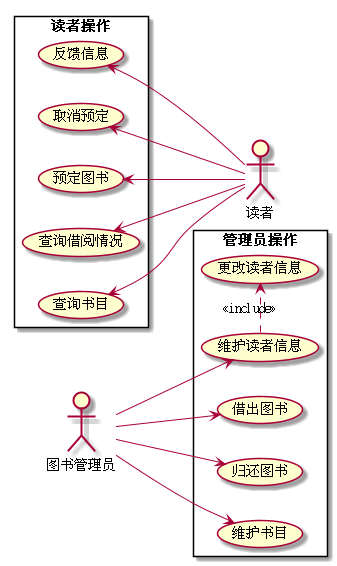
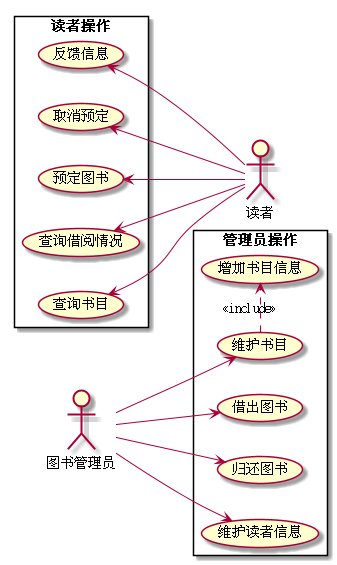
实验二测试

diff --git a/test2/markdown/user1.html b/test2/markdown/user1.html
@@ -8,7 +8,7 @@
 <table border="1" cellspacing="0" cellpadding="0" >
     <tr>
         <td width="150"> <b>&nbsp;用例名称</b></td>
-        <td colspan="2" width="600">&nbsp;预定图书</td>
+        <td colspan="2" width="600">&nbsp;查询借阅情况</td>
     </tr>
     <tr>
         <td width="150"> <b>&nbsp;参与者</b></td>
@@ -20,7 +20,7 @@
     </tr>
     <tr>
         <td width="150"> <b>&nbsp;后置条件</b></td>
-        <td colspan="2" width="600">&nbsp;系统对读者借阅信息进行更改</td>
+        <td colspan="2" width="600">&nbsp;无</td>
     </tr>
     <tr>
         <td colspan="3" width="200"> <b>&nbsp;主事件流</b></td>
@@ -35,36 +35,16 @@
             <br>
             <span>&nbsp;</span>
             <br>
-            <span>&nbsp;3.读者查询图书；</span>
-            <br>
             <span>&nbsp;</span>
             <br>
-            <span>&nbsp;5.选择需要预定的图书；</span>
-            <br>
-            <span>&nbsp;6.确认预定图书；</span>
-            <br>
-            <span>&nbsp;</span>
-            <br>
-            <span>&nbsp;</span>
-            <br>
-            <span>&nbsp;9.读者确认预定成功，用例结束；</span>
+            <span>&nbsp;4.读者查看自己的预定情况，用例结束；</span>
         </td>
         <td width="410">
             <span>&nbsp;</span>
             <br>
             <span>&nbsp;2.系统查询登录是被允许；</span>
             <br>
-            <span>&nbsp;</span>
-            <br>
-            <span>&nbsp;4.系统显示搜寻的图书；</span>
-            <br>
-            <span>&nbsp;</span>
-            <br>
-            <span>&nbsp;</span>
-            <br>
-            <span>&nbsp;7.系统更改读者借阅情况；</span>
-            <br>
-            <span>&nbsp;8.返回预定成功消息；</span>
+            <span>&nbsp;3.系统返回读者的借阅情况；</span>
             <br>
             <span>&nbsp;</span>
         </td>
@@ -81,18 +61,6 @@
             <span>&nbsp;2b.读者未注册</span>
             <br>
             <span>&nbsp;&emsp;1.系统返回登录界面，转第1步</span>
-            <br>
-            <span>&nbsp;4a.系统未查询到图书</span>
-            <br>
-            <span>&nbsp;&emsp;1.提示读者未搜寻到图书，转第3步</span>
-            <br>
-            <span>&nbsp;6a.读者重新选择预定图书</span>
-            <br>
-            <span>&nbsp;&emsp;1.清空搜寻信息，转第3步</span>
-            <br>
-            <span>&nbsp;7a.修改读者信息失败</span>
-            <br>
-            <span>&nbsp;&emsp;1.提示读者错误信息，转第3步</span>
         </td>
     </tr>
     <tr>
@@ -100,11 +68,9 @@
     </tr>
     <tr>
         <td colspan="3" width="200">
-            <span>&nbsp;1.用户登录成功后可以查询图书，并选择预定</span>
+            <span>&nbsp;1.读者登录只有登陆后才能观看自己的借阅信息</span>
             <br>
-            <span>&nbsp;2.一位读者同时能够在借图书本数为10本</span>
-            <br>
-            <span>&nbsp;3.一位读者一次性可以借阅多本图书，但是不能超过借阅上限</span>
+            <span>&nbsp;2.读者不能查看别人的借阅信息</span>
         </td>
     </tr>
 </table>

diff --git a/test2/markdown/usercase4.md b/test2/markdown/usercase4.md
@@ -1,1 +1,70 @@
 # 查询借阅情况规约表 | [返回](../README.md)
+<table border="1" cellspacing="0" cellpadding="0" >
+    <tr>
+        <td width="150"> <b>&nbsp;用例名称</b></td>
+        <td colspan="2" width="600">&nbsp;查询借阅情况</td>
+    </tr>
+    <tr>
+        <td width="150"> <b>&nbsp;参与者</b></td>
+        <td colspan="2" width="600">&nbsp;读者</td>
+    </tr>
+    <tr>
+        <td width="150"> <b>&nbsp;前置条件</b></td>
+        <td colspan="2" width="600">&nbsp;读者已注册</td>
+    </tr>
+    <tr>
+        <td width="150"> <b>&nbsp;后置条件</b></td>
+        <td colspan="2" width="600">&nbsp;无</td>
+    </tr>
+    <tr>
+        <td colspan="3" width="200"> <b>&nbsp;主事件流</b></td>
+    </tr>
+    <tr>
+        <td colspan="2" width="180"> <b>&nbsp;参与者动作</b></td>
+        <td width="410"> <b>&nbsp;系统行为</b></td>
+    </tr>
+    <tr>
+        <td colspan="2" width="180">
+            <span>&nbsp;1.读者登录系统；</span>
+            <br>
+            <span>&nbsp;</span>
+            <br>
+            <span>&nbsp;</span>
+            <br>
+            <span>&nbsp;4.读者查看自己的预定情况，用例结束；</span>
+        </td>
+        <td width="410">
+            <span>&nbsp;</span>
+            <br>
+            <span>&nbsp;2.系统查询登录是被允许；</span>
+            <br>
+            <span>&nbsp;3.系统返回读者的借阅情况；</span>
+            <br>
+            <span>&nbsp;</span>
+        </td>
+    </tr>
+    <tr>
+        <td colspan="3" width="200"> <b>&nbsp;备选时间流</b></td>
+    </tr>
+    <tr>
+        <td colspan="3" width="200">
+            <span>&nbsp;2a.读者密码错误</span>
+            <br>
+            <span>&nbsp;&emsp;1.系统返回登录界面，转第1步</span>
+            <br>
+            <span>&nbsp;2b.读者未注册</span>
+            <br>
+            <span>&nbsp;&emsp;1.系统返回登录界面，转第1步</span>
+        </td>
+    </tr>
+    <tr>
+        <td colspan="3" width="200"> <b>&nbsp;业务规则</b></td>
+    </tr>
+    <tr>
+        <td colspan="3" width="200">
+            <span>&nbsp;1.读者登录只有登陆后才能观看自己的借阅信息</span>
+            <br>
+            <span>&nbsp;2.读者不能查看别人的借阅信息</span>
+        </td>
+    </tr>
+</table>

diff --git a/test2/README.md b/test2/README.md
@@ -16,7 +16,7 @@ rectangle 管理员操作{
     (归还图书)
     (维护书目)
     (维护读者信息)
-    (更改读者信息)
+    (增加书目信息)
 }
 rectangle 读者操作{
     (查询书目)
@@ -35,7 +35,7 @@ reader -up->(查询借阅情况)
 reader -up->(预定图书)
 reader -up->(取消预定)
 reader -up->(反馈信息)
-(维护读者信息).>(更改读者信息):<<include>>
+(维护书目).>(增加书目信息):<<include>>
 
 @enduml
 ```
@@ -75,13 +75,13 @@ reader -up->(反馈信息)
     
 #### 【图书管理员规约表】
         
-* **更改读者信息规约表:** 
+* **增加图书信息规约表:** 
     
-    [更改读者信息](./markdown/usercase6.md)
+    [增加图书信息](./markdown/usercase6.md)
         
-* **维护读者信息规约表:** 
+* **维护书目规约表:** 
     
-    [维护读者信息](./markdown/usercase7.md)
+    [维护书目](./markdown/usercase7.md)
         
 * **借出图书规约表:** 
     
@@ -91,6 +91,6 @@ reader -up->(反馈信息)
     
     [归还图书](./markdown/usercase9.md)
             
-* **维护书目规约表:** 
+* **维护读者信息规约表:** 
     
-    [维护书目](./markdown/usercase10.md)
+    [维护读者信息](./markdown/usercase10.md)

diff --git a/test2/markdown/usercase6.md b/test2/markdown/usercase6.md
@@ -1,1 +1,1 @@
-# 更改读者信息规约表 | [返回](../README.md)
+# 增加图书信息规约表 | [返回](../README.md)

diff --git a/test2/markdown/usercase10.md b/test2/markdown/usercase10.md
@@ -1,1 +1,1 @@
-# 维护书目规约表 | [返回](../README.md)
+# 维护读者信息规约表 | [返回](../README.md)

diff --git a/test2/markdown/usercase7.md b/test2/markdown/usercase7.md
@@ -1,1 +1,1 @@
-# 维护读者信息规约表 | [返回](../README.md)
+# 维护书目规约表 | [返回](../README.md)
